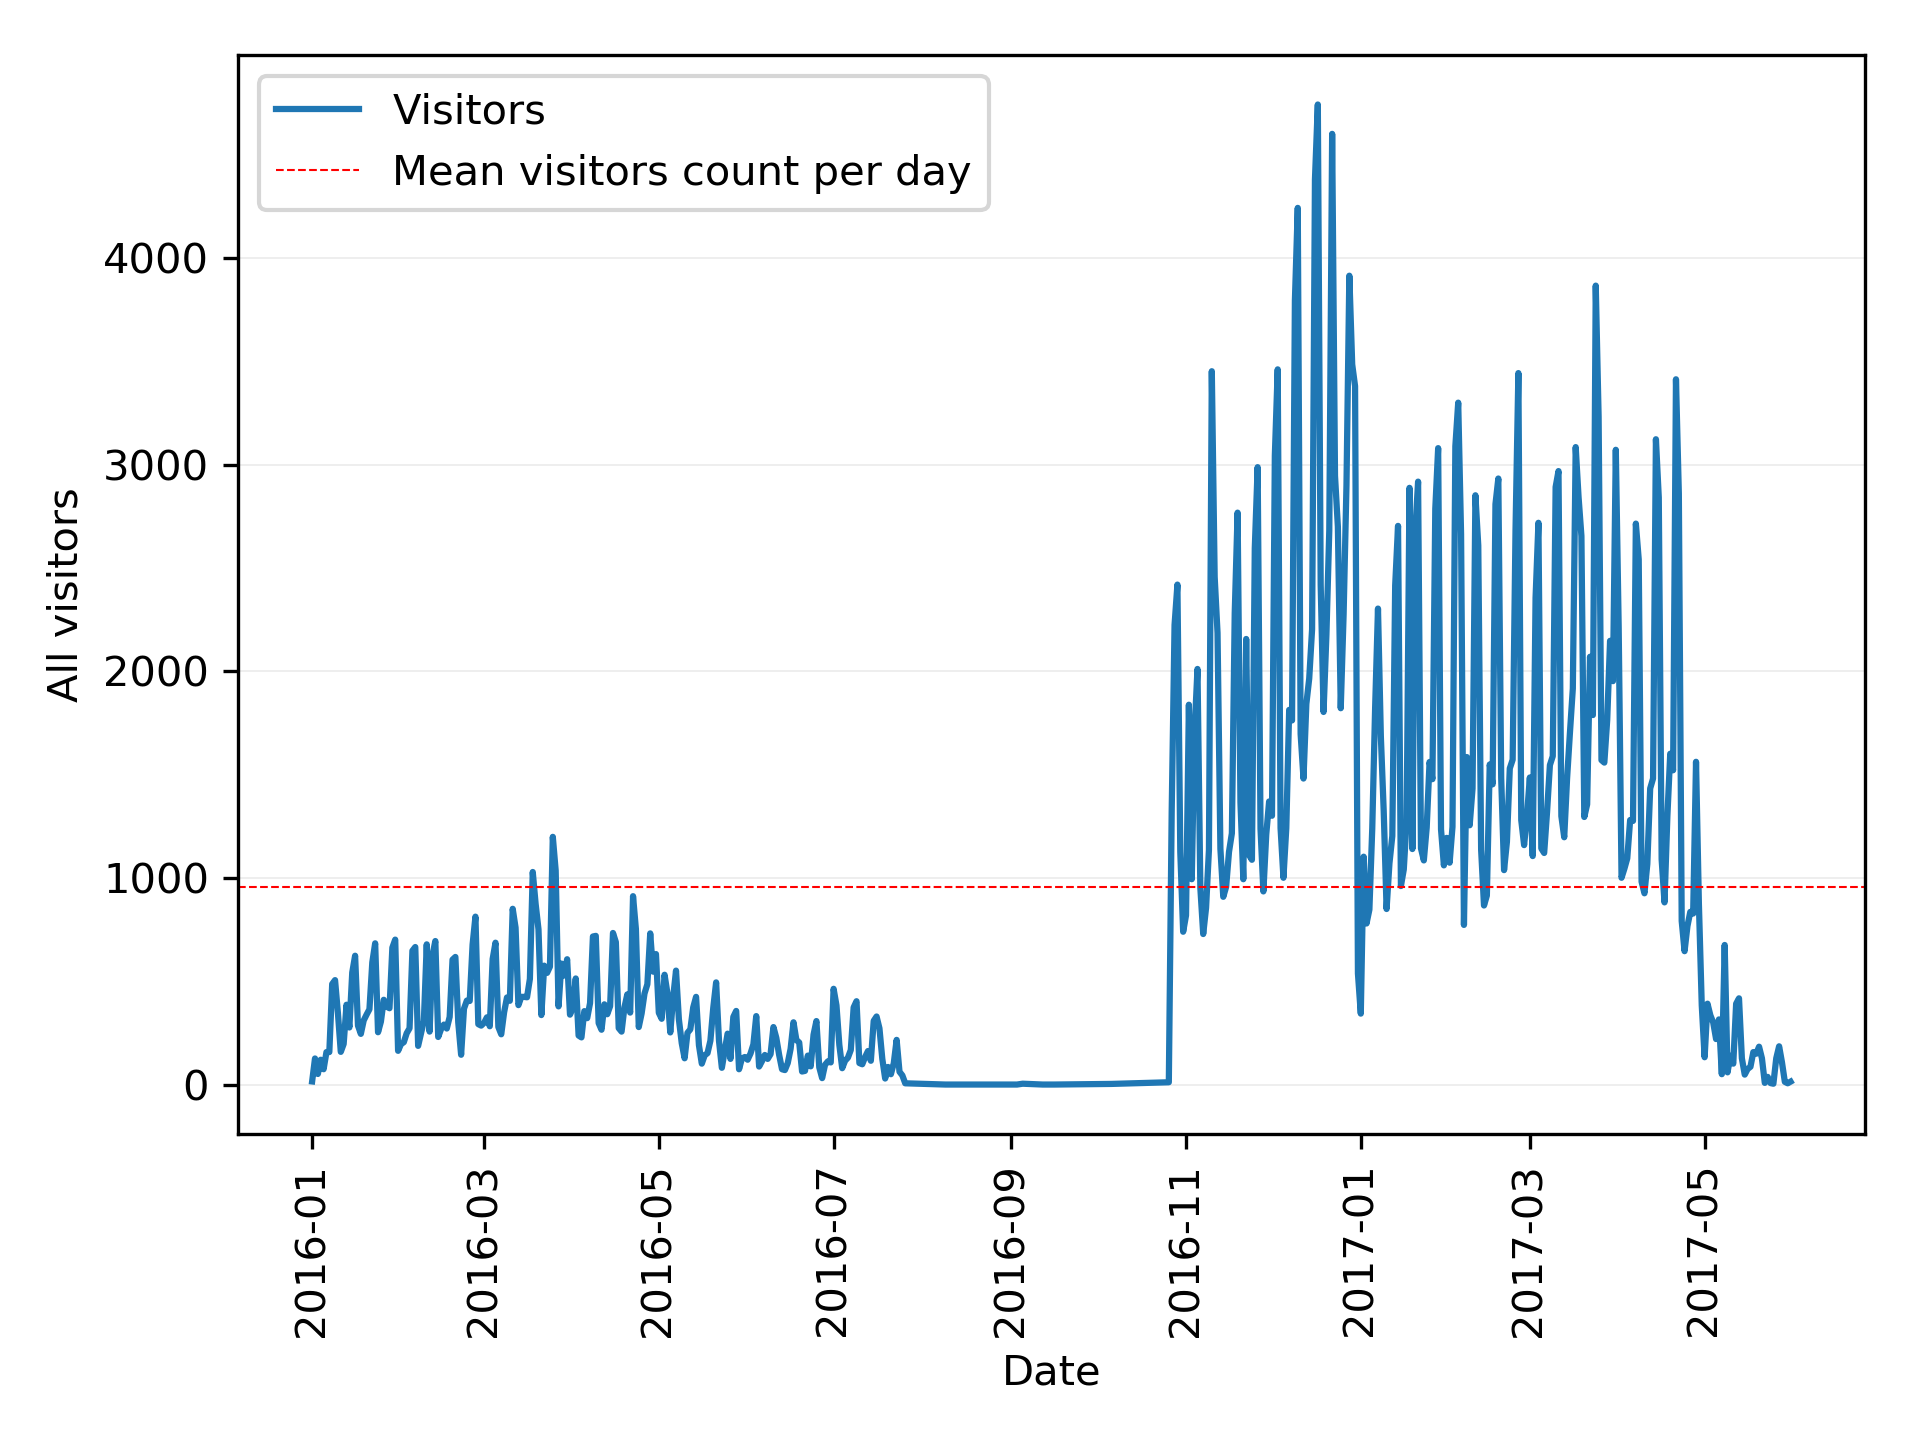
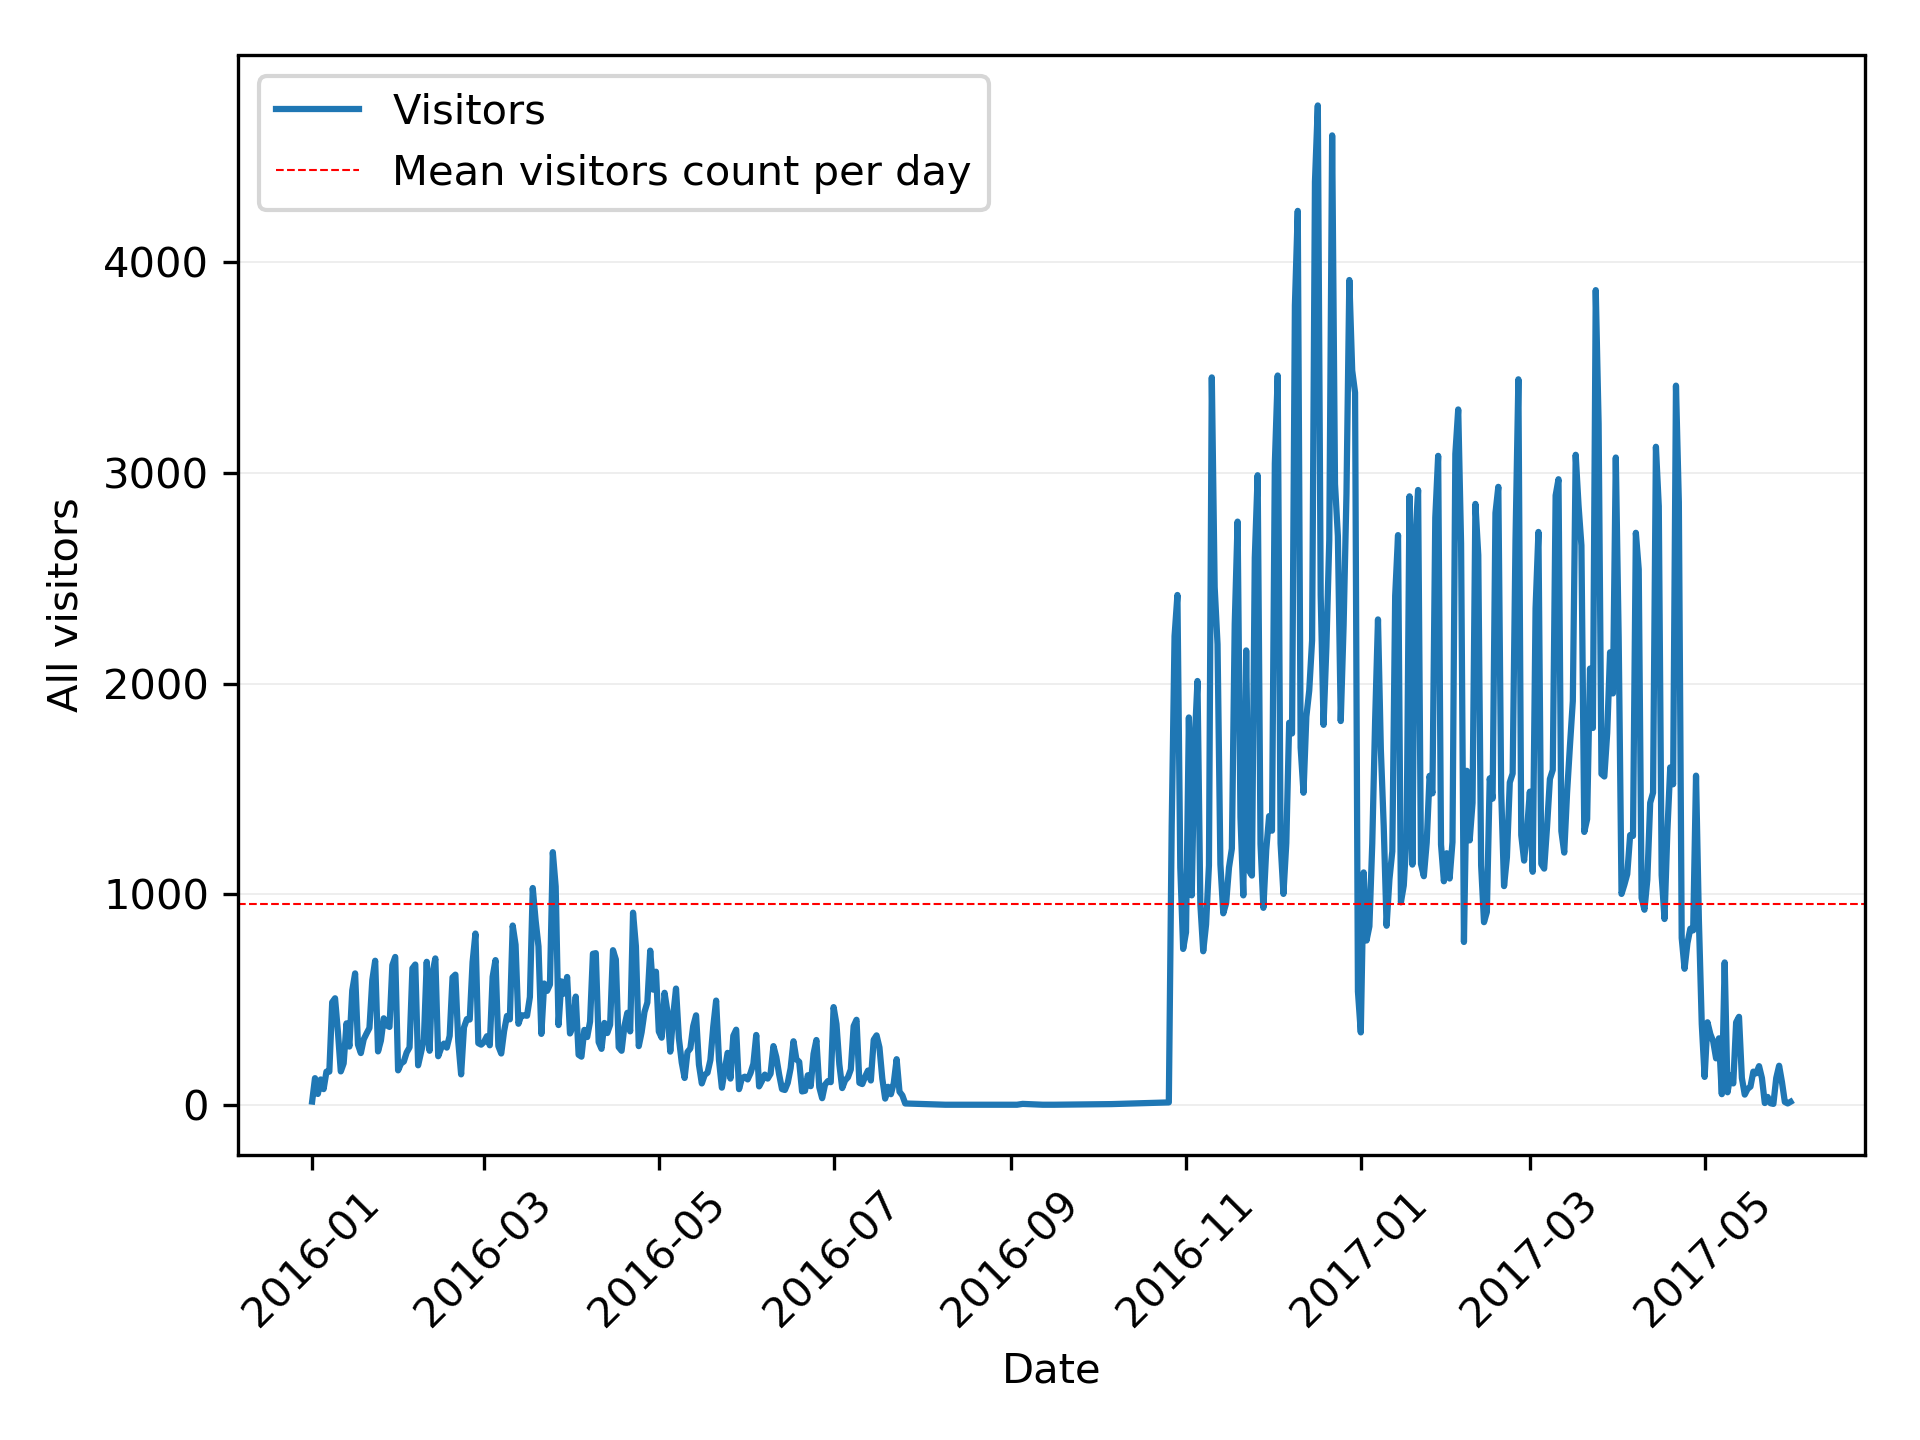
reservations

diff --git a/ssied-core.py b/ssied-core.py
@@ -5,27 +5,36 @@ from pandas.plotting import autocorrelation_plot
 from statsmodels.tsa.arima_model import ARIMA
 import statsmodels.api as sm
 
+import reservation
 import air_visits
 import air_store
 from series_util import test_stationarity, difference, log
 from use_arima import predict_arima
 
 date_info = pd.read_csv("dane/date_info.csv")
-air_reserve = pd.read_csv("dane/air_reserve.csv")
+air_reserve = pd.read_csv("dane/air_reserve.csv", index_col=2, parse_dates=[1, 2])
 air_store_info = pd.read_csv("dane/air_store_info.csv")
 air_visit_data = pd.read_csv("dane/air_visit_data.csv", index_col=1, parse_dates=[1])
-hpg_reserve = pd.read_csv("dane/hpg_reserve.csv")
+hpg_reserve = pd.read_csv("dane/hpg_reserve.csv", index_col=2, parse_dates=[1, 2])
 hpg_store_info = pd.read_csv("dane/hpg_store_info.csv")
 sample_submission = pd.read_csv("dane/sample_submission.csv")
 store_id_relation = pd.read_csv("dane/store_id_relation.csv")
 
+# air_visits.plot_all_visitors_by_date(air_visit_data)
+
+# air_reserve['visit_datetime'] = air_reserve['visit_datetime'].dt.date
+# print(air_reserve.groupby('visit_datetime')['reserve_visitors'].sum())
 
 
 #air_visits.plot_all_visitors_by_date(air_visit_data)
 #air_visits.plot_visitors_by_month(air_visit_data)
 #air_visits.plot_visitors_by_day_of_week(air_visit_data)
 
-#print(air_visit_data)
+reservation.plot_reservation(air_reserve, 'air')
+reservation.plot_reservation(hpg_reserve, 'hpg')
+
+
+# print(hpg_reserve)
 #air_visit_data['visitors'].plot()
 #pyplot.show()
 

diff --git a/reservation.py b/reservation.py
@@ -1,15 +1,15 @@
 from matplotlib import pyplot
 
 
-def plot_air_reservation(air_reserve):
-    air_reserve['visit_datetime'] = air_reserve['visit_datetime'].dt.date
+def plot_reservation(reserve, prefix):
+    reserve['visit_datetime'] = reserve['visit_datetime'].dt.date
 
-    ts = air_reserve.groupby('visit_datetime')['reserve_visitors'].sum()
+    ts = reserve.groupby('visit_datetime')['reserve_visitors'].sum()
     ax = ts.plot()
     ax.set_xlabel("Date")
     ax.set_ylabel("All visitors")
     for tick in ax.get_xticklabels():
-        tick.set_rotation(90)
+        tick.set_rotation(45)
 
     ax.grid('on', which='minor', axis='x', linestyle='-', linewidth=0.1)
     ax.grid('on', which='major', axis='y', linestyle='-', linewidth=0.1)
@@ -18,4 +18,4 @@ def plot_air_reservation(air_reserve):
 
     pyplot.tight_layout()
     # pyplot.show()
-    pyplot.savefig('figures/air_reservation.png', dpi=300)
+    pyplot.savefig('figures/' + prefix + '_reservation.png', dpi=300)
